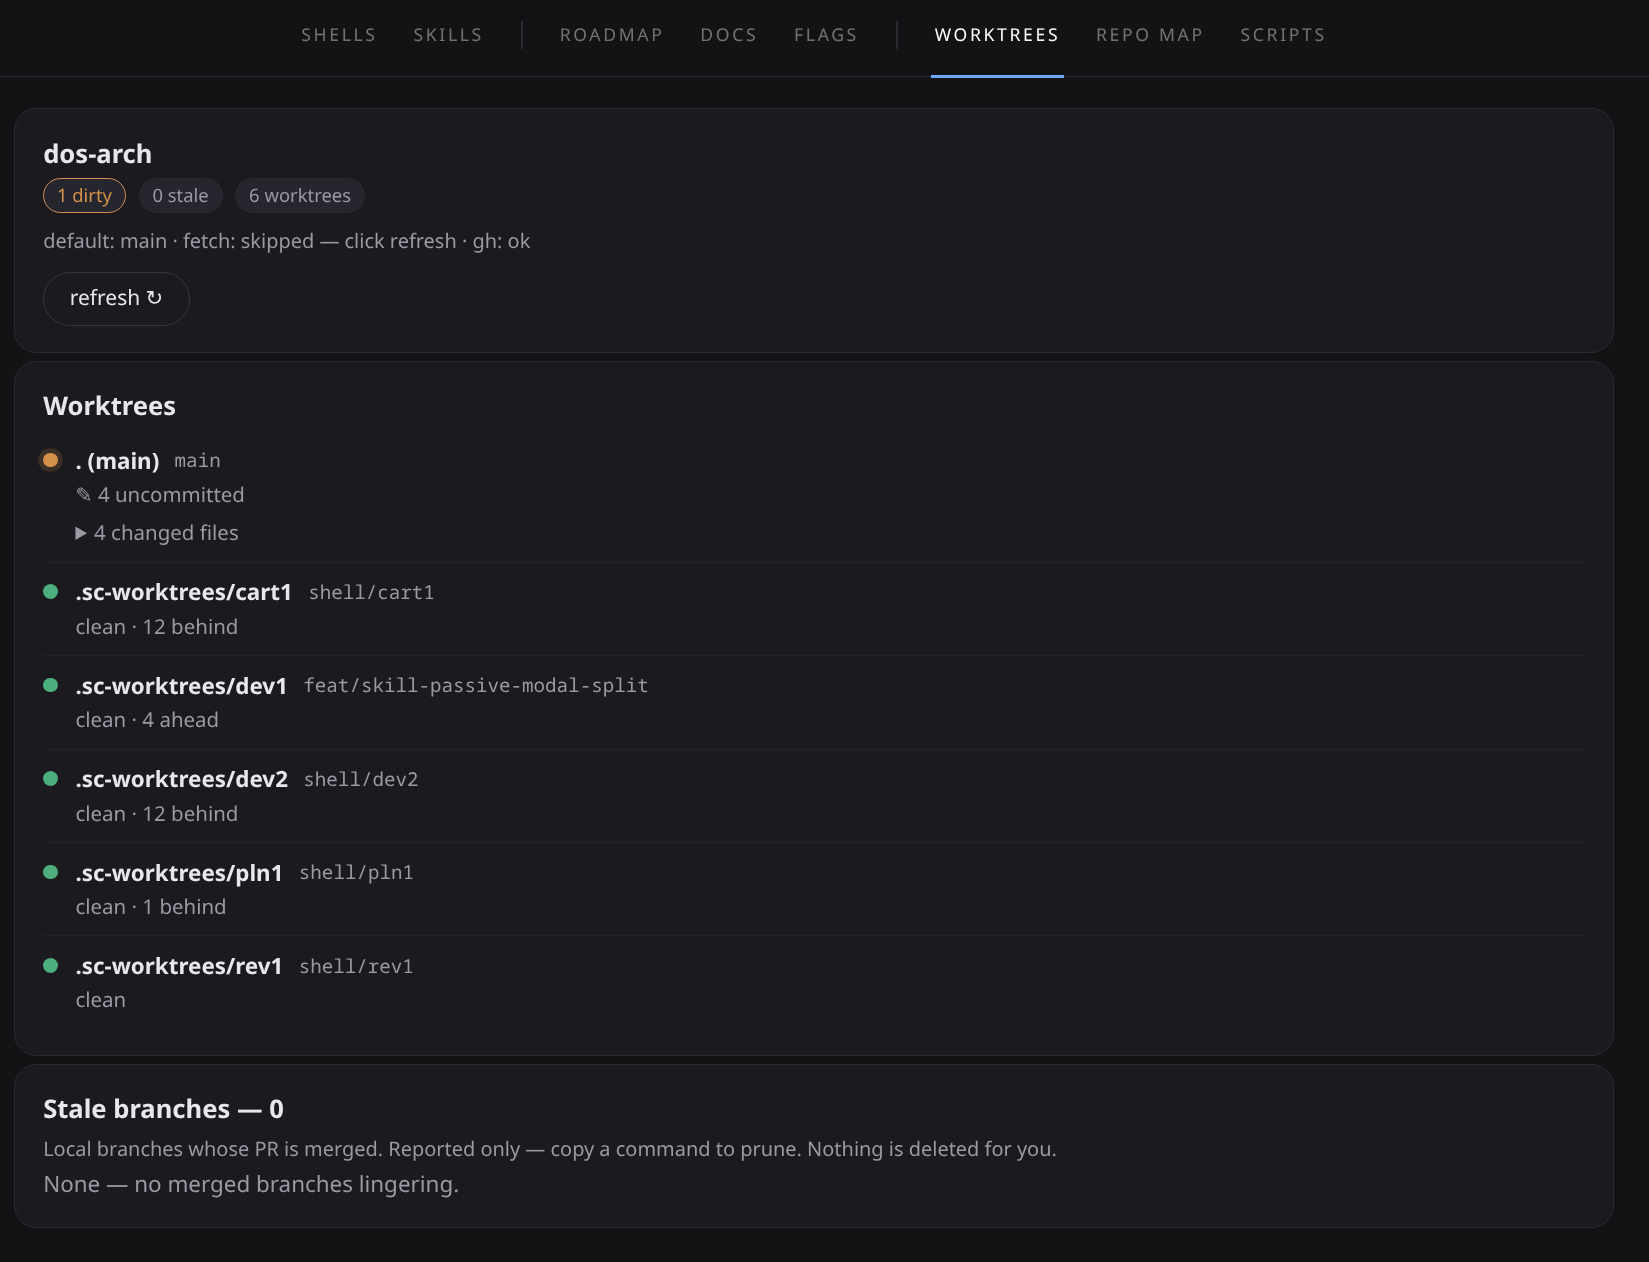
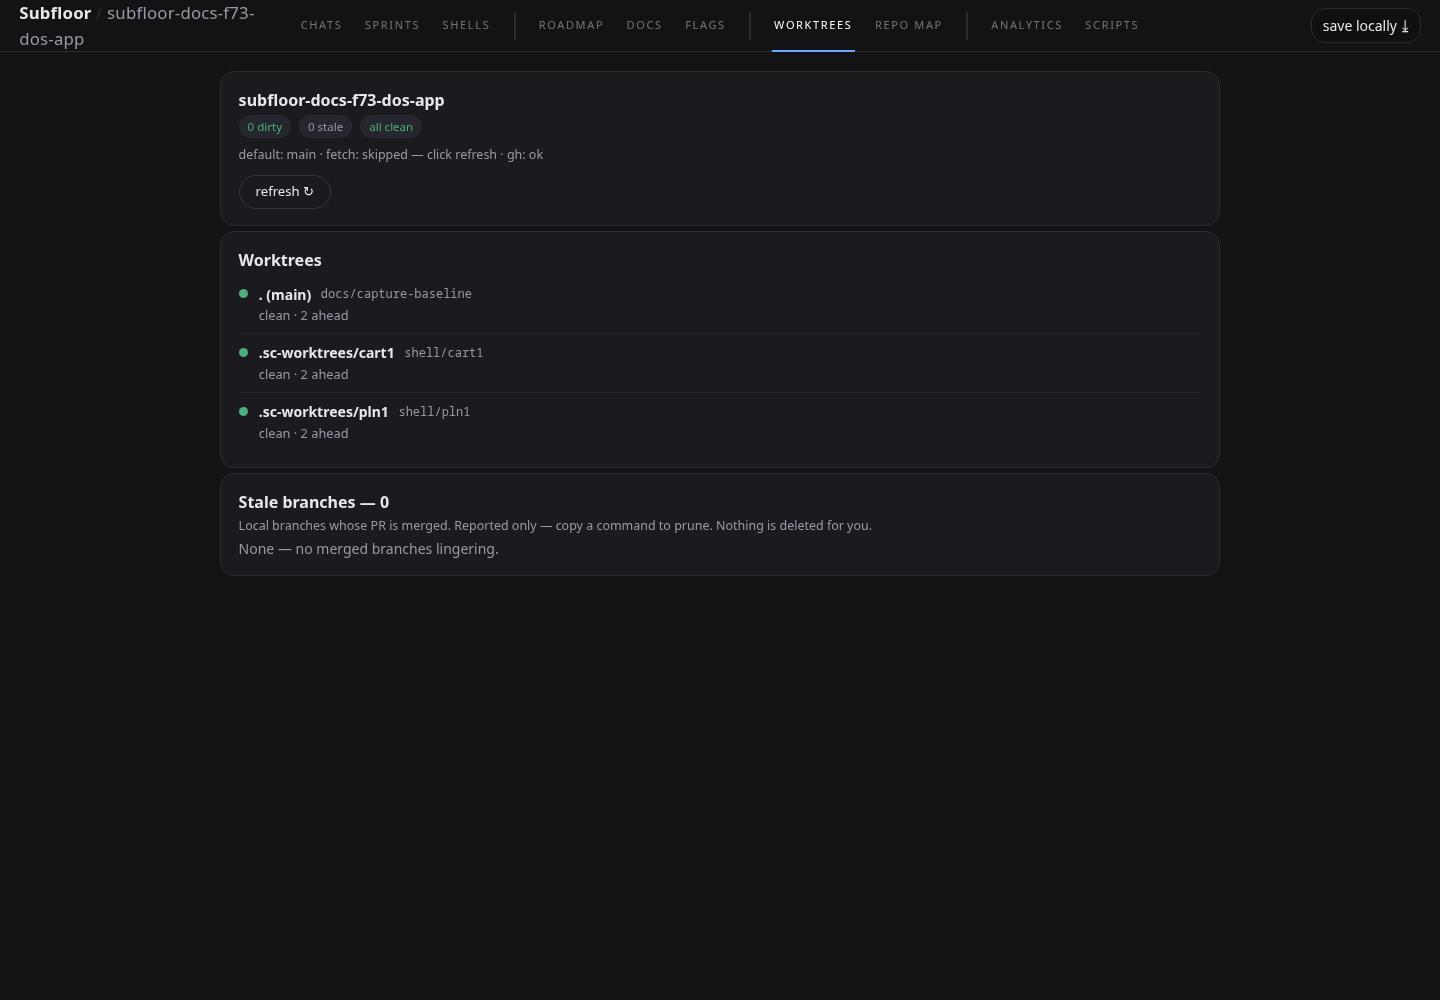
docs: capture real workflows and add source drift checks

diff --git a/tests/test_public_documentation.py b/tests/test_public_documentation.py
@@ -1,0 +1,130 @@
+"""Small offline drift gates for the public documentation's source contract."""
+from __future__ import annotations
+
+import ast
+import json
+import re
+import unittest
+from collections import Counter
+from pathlib import Path
+from urllib.parse import unquote, urlsplit
+
+ROOT = Path(__file__).resolve().parents[1]
+ENGINE = ROOT / '.super-coder'
+CURRENT_DOCS = [
+    ROOT / 'README.md', ROOT / 'docs/quick-start.md', ROOT / 'docs/README.md',
+    ENGINE / 'README.md', *sorted((ENGINE / 'adapters').glob('*/README.md')),
+    *sorted((ENGINE / 'docs').glob('*.md')),
+]
+LINK_DOCS = [*CURRENT_DOCS, ROOT / 'docs/deepseek-harness-removal.md']
+RAW_PREFIX = 'https://raw.githubusercontent.com/jedbjorn/subfloor/main/'
+
+
+def headings(text):
+    """GitHub-style heading IDs, including duplicate suffixes; ignore code."""
+    counts = Counter()
+    result = set()
+    fenced = False
+    for line in text.splitlines():
+        if line.startswith('```'):
+            fenced = not fenced
+        if fenced or not re.match(r'^#{1,6} ', line):
+            continue
+        label = re.sub(r'^#+ | +#+$', '', line).strip().lower()
+        label = re.sub(r'[^\w\- ]', '', label).replace(' ', '-')
+        index = counts[label]
+        counts[label] += 1
+        result.add(label + (f'-{index}' if index else ''))
+    return result
+
+
+class PublicDocumentationTest(unittest.TestCase):
+    def test_internal_files_anchors_and_raw_images_exist(self):
+        for path in LINK_DOCS:
+            for match in re.finditer(r'(!?)\[[^\]\n]*\]\(([^\s)]+)\)', path.read_text()):
+                image, target = match.groups()
+                with self.subTest(document=str(path.relative_to(ROOT)), target=target):
+                    if target.startswith(RAW_PREFIX):
+                        local = ROOT / unquote(target[len(RAW_PREFIX):])
+                        self.assertTrue(local.is_file(), str(local))
+                        continue
+                    parsed = urlsplit(target)
+                    if parsed.scheme or parsed.netloc:
+                        continue
+                    self.assertFalse(image, 'themed images need absolute URLs')
+                    local = path.parent / unquote(parsed.path) if parsed.path else path
+                    self.assertTrue(local.exists(), str(local))
+                    if parsed.fragment and local.suffix == '.md':
+                        self.assertIn(unquote(parsed.fragment), headings(local.read_text()))
+
+    def test_documented_command_families_exist_in_dispatcher(self):
+        # Read the actual command case, without executing any maintenance verb.
+        dispatch = (ENGINE / 'scripts/dispatch.sh').read_text().split('case "$cmd" in')[-1]
+        families = set()
+        for label in re.findall(r'^  ([a-zA-Z0-9_|*\-]+)\)', dispatch, re.MULTILINE):
+            families.update(label.split('|'))
+        seen = set()
+        for path in CURRENT_DOCS:
+            for command in re.findall(r'(?<![\w/-])(?:\./sc|sc|subfloor) ([a-z][a-z-]+)\b', path.read_text()):
+                with self.subTest(document=str(path.relative_to(ROOT)), command=command):
+                    self.assertTrue(command in families or any(
+                        item.endswith('*') and command.startswith(item[:-1])
+                        for item in families
+                    ), 'documented command is absent from dispatcher')
+                    seen.add(command)
+        self.assertTrue({'install', 'enter', 'sprint', 'remove', 'sandbox-memory'} <= seen)
+
+    def test_harness_flavor_roster_and_tab_facts_match_source(self):
+        guide = (ROOT / 'docs/README.md').read_text()
+        adapters = [json.loads(p.read_text()) for p in (ENGINE / 'adapters').glob('*/adapter.json')]
+        self.assertIn(f'value: {len(adapters)}\nlabel: Coding harnesses', guide)
+        flavors = {p.stem for p in (ENGINE / 'templates/shells').glob('*.json')}
+        self.assertIn(f'value: {len(flavors)}\nlabel: Shell flavors', guide)
+        for flavor in flavors:
+            self.assertIn(flavor, guide)
+        tree = ast.parse((ENGINE / 'scripts/init_fork.py').read_text())
+        roster = next(ast.literal_eval(node.value) for node in tree.body
+                      if isinstance(node, ast.Assign) and any(
+                          isinstance(target, ast.Name) and target.id == 'TEAM_ROSTER'
+                          for target in node.targets))
+        self.assertEqual(Counter(row[0] for row in roster),
+                         {'admin': 1, 'planner': 2, 'dev': 4, 'reviewer': 2})
+        self.assertEqual(len(roster) + 1, 10)  # singleton Cartographer is separate
+        self.assertIn('ten-shell team', guide)
+        tabs = re.findall(r'<button data-tab="[^"]+"[^>]*>([^<]+)</button>',
+                          (ENGINE / 'ui/index.html').read_text())
+        self.assertIn(f'value: {len(tabs)}\nlabel: Review-GUI tabs', guide)
+        navigation = guide.split('## Review GUI\n', 1)[1].split('### ', 1)[0]
+        documented_tabs = re.findall(r'^\| \*\*([^*]+)\*\* \|', navigation, re.MULTILINE)
+        self.assertEqual(set(documented_tabs), set(tabs))
+        vibe = next(adapter for adapter in adapters if adapter['harness'] == 'vibe')
+        self.assertEqual(vibe['surfaces'],
+                         {'terminal': True, 'one_shot': False, 'browser': False, 'sprint': False})
+        self.assertIn('Vibe supports terminal work but does not advertise browser or Sprint', guide)
+
+    def test_current_docs_do_not_restore_retired_contracts(self):
+        # Historical migration documents are deliberately outside this scan.
+        forbidden = [r'four harness(?:es)?', r'five flavors', r'six-shell (?:team|roster)',
+                     r'\./sc enter dev\b', r'\.sc-worktrees/dev\b',
+                     r'\.super-coder/memory\.db', r'/api/interface/(?:bootstrap|lease)',
+                     r'conductor shell']
+        for path in CURRENT_DOCS:
+            for pattern in forbidden:
+                with self.subTest(document=str(path.relative_to(ROOT)), pattern=pattern):
+                    self.assertIsNone(re.search(pattern, path.read_text(), re.IGNORECASE))
+
+    def test_themed_guide_has_supported_structure_and_current_assets(self):
+        guide = (ROOT / 'docs/README.md').read_text()
+        self.assertTrue(guide.startswith('---\n'))
+        self.assertRegex(guide, r'(?m)^tags: \[.*\]$')
+        self.assertLessEqual(len(re.findall(r'^## ', guide, re.MULTILINE)), 25)
+        self.assertNotRegex(guide, r'(?m)^#{4,6} ')
+        self.assertIn('## Sprints\n', guide)
+        for asset in ['cli-picker', 'roadmap-tab', 'roadmap-flow', 'worktrees-tab', 'chats-tab', 'sprints-tab']:
+            self.assertIn(RAW_PREFIX + f'docs/images/{asset}.png', guide)
+        # Animation header proves this is still an actual GIF, not a placeholder.
+        self.assertIn((ROOT / 'docs/demo.gif').read_bytes()[:6], (b'GIF87a', b'GIF89a'))
+
+
+if __name__ == '__main__':
+    unittest.main()

diff --git a/maintainer/capture_public_docs.py b/maintainer/capture_public_docs.py
@@ -28,6 +28,10 @@ class DocumentationCapture(PlaywrightCapture):
             response = page.goto(url, wait_until="domcontentloaded", timeout=timeout_ms)
             tab = url.split("#", 1)[1].split("-", 1)[0]
             page.locator(f'nav button[data-tab="{tab}"].active').wait_for(timeout=timeout_ms)
+            if tab == 'worktrees':
+                page.locator('.wt-summary').wait_for(timeout=timeout_ms)
+            elif url.endswith('#roadmap'):
+                page.locator('.feature-title').filter(has_text='Reading list').click()
             page.wait_for_timeout(settle_ms)
             output.parent.mkdir(parents=True, exist_ok=True)
             page.screenshot(path=str(output), full_page=True)

diff --git a/maintainer/public-documentation-refresh.md b/maintainer/public-documentation-refresh.md
@@ -70,34 +70,61 @@ untouched. Recovery bundle and installation logs are retained in the local
 handoff evidence directory. Sandbox launch and authenticated visual acceptance
 belong to the capture/verification tasks; they are not implied by installation.
 
-VHS, ttyd, ffmpeg, Docker, Node and Python 3.14.7 are available. Browser capture
-dependencies, sanitized demonstration state and authenticated harness boot
-still require verification. Do not substitute simulated terminal output or the
-existing running fork's private data.
+## Real capture acceptance
+
+Admin handoff #1811 cleared flag #616 by preparing harness scratch directories
+inside the disposable container, preserving the private-state masks. Engine
+follow-up #617 tracks provisioning those directories at launch. Do not recreate
+that container before completing this verification. The real terminal capture
+reaches Claude's Cartographer prompt. Its cross-session socket and image-owned
+auto-update warnings remain visible; neither prevented boot or the normal
+Planner conversation. No harness output was fabricated or hidden by image edits.
+
+Capture prerequisites: VHS, ttyd, ffmpeg, Docker, Python 3.14.7, and an isolated
+Playwright 1.54.0 environment with Chromium. The existing Claude authentication
+was used without account changes. The clone's origin uses the original dos-app
+HTTPS transport so normal sandbox GitHub capability resolution works.
+
+Through the live browser Chats API, Planner PLN1 created the demonstration
+work-stream Reading list, three features (Reading list in progress, Search saved
+books next, Reading reminders near term), spec #1 with two independent tasks,
+and prepared Sprint #1 with DEV1/REV1 and DEV2/REV2 lanes. The conversation is
+real model output using granted commands. All routes use Claude Harness default
+(model and effort null). No Sprint was armed, no participants were dispatched,
+and no project implementation or external PR was created. The shortname Demo
+and book-list content are intentional public fixtures.
+
+To reproduce after provisioning the dedicated clone:
+
+1. Open a Planner chat with Harness default. Ask it to create the work-stream
+   and three features above through normal commands, one spec and tasks named
+   “Save a book” and “Track reading progress”; prohibit project edits and
+   external messages. Use the returned IDs.
+2. Ask it to prepare those two lanes with the assignments above and record the
+   merge grant, but explicitly prohibit arming, dispatch, PRs and merges.
+3. From this source checkout run `vhs docs/demo.tape`. The tape deliberately
+   enters `/tmp/subfloor-docs-f73-dos-app`, selects Demo, Cartographer and Claude.
+4. Run `python maintainer/capture_public_docs.py --port 8824 --output <gallery>`
+   using the isolated Playwright interpreter. The helper verifies the fixture's
+   health identity, waits for real page content, and expands the Board feature.
+5. Review the gallery and terminal frames before copying the five browser PNGs
+   into `docs/images`. Never substitute another running fork's private data.
+
+Accepted assets on 2026-09-07: the 1100×1000 terminal GIF (468 frames) and CLI
+picker; real Roadmap Board/Flow, Worktrees, Chats and Sprints PNGs at 1440-pixel
+width. Visual review confirmed legible content, no credentials or personal
+paths, a populated Board with spec/tasks, clean worktrees, and an explicitly
+prepared Sprint. Flow intentionally has no dependency edges. The guide captions
+now describe these actual states. Capture gallery reports five routes, zero
+failures. The original dos-app checkout and runtime remain preserved.
 
 ## Remaining delivery gates
 
-Tasks #795–#798 are complete: provisioned preparation, core correctness,
-public workflows, and the adapter/runbook audit. The DeepSeek removal document
-retains its exact-ref checkpoints beneath a historical/Admin applicability label.
+Tasks #795–#799 are complete: preparation, core corrections, workflow rewrite,
+runbook audit, and real visuals. The DeepSeek document retains its exact-ref
+checkpoints beneath a historical/Admin applicability label.
 
-Task #799 is in progress. Sandbox launch and health pass; all five harnesses
-are detected and Claude reports existing authentication. Real interactive boot
-reaches Claude but then fails creating its temporary directory under the
-restricted execution view. Admin handoff #1808 and flag #616 track that capture
-blocker. The independent clone's origin now uses the original dos-app HTTPS
-GitHub transport, and launch refreshed its GitHub capability boundary.
-
-`maintainer/capture_public_docs.py` uses the existing visual-QA gallery and
-Playwright session against the dedicated live instance. Its page-ready capture
-supports Chats' persistent SSE stream. Previews prove navigation/capture only;
-empty Roadmap/Sprint views are not accepted as the required seeded assets.
-The updated `docs/demo.tape` selects Demo, Cartographer #2 and Claude #1. Its
-old tracked GIF is deliberately retained until a successful real recording can
-replace it. Task #800 remains pending.
-
-The visuals must cover the CLI picker, Roadmap Board and Flow, Worktrees, Chats,
-and Sprints. Review actual assets at rendered size for privacy and legibility.
-Finish with command/link/anchor/fact drift checks, a quick-start sandbox walk,
-themed rendering, configured CI, independent documentation review, and a final
-link/render pass after review fixes. None of those gates is certified here.
+Task #800 must finish command/link/anchor/fact drift checks, the quick-start
+sandbox walk, themed rendering, configured CI, independent documentation review,
+and a final link/render pass after review fixes. Capture success does not certify
+those remaining gates.

diff --git a/docs/README.md b/docs/README.md
@@ -144,9 +144,9 @@ checks the daemon is reachable and points you here if not — it never does setu
   ./sc doctor                               # verify → "docker ✓ rootful"
   ```
 
-The commands are the five steps in the Quick start above — pull the engine in
-via git (no history merge; subfloor never touches your repo's own build
-files), `./sc install`, sign in, launch, commit.
+Follow the [Quick start](quick-start.md): fetch the engine without merging its
+history, install it, commit the bootstrap, launch, sign in, then enter a shell.
+Subfloor does not replace your project's build files.
 
 `./sc install` does the rest: checks requirements, **installs the harness CLIs**
 (`claude` + `opencode` + `codex` + `vibe` + `kimi`, via their official native installers — no
@@ -925,7 +925,11 @@ and ignored local flat renders. Generated artifacts are never committed or publi
 
 ![Review GUI, Roadmap tab — Board view: a feature expanded into its inline editor with title, status, summary, and spec-task checklist](https://raw.githubusercontent.com/jedbjorn/subfloor/main/docs/images/roadmap-tab.png)
 
-![Review GUI, Worktrees tab — live git-hygiene report: dirty worktrees, each branch ahead/behind its base, and prunable merged branches](https://raw.githubusercontent.com/jedbjorn/subfloor/main/docs/images/worktrees-tab.png)
+![Review GUI, Worktrees tab — live git-hygiene report for the clean demonstration checkout and its two shell worktrees](https://raw.githubusercontent.com/jedbjorn/subfloor/main/docs/images/worktrees-tab.png)
+
+![Review GUI, Chats tab — the real Planner conversation summarizing a prepared demonstration Sprint](https://raw.githubusercontent.com/jedbjorn/subfloor/main/docs/images/chats-tab.png)
+
+![Review GUI, Sprints tab — two independent demonstration lanes waiting in a prepared, unarmed Sprint](https://raw.githubusercontent.com/jedbjorn/subfloor/main/docs/images/sprints-tab.png)
 
 ### Roadmap views — Board & Flow
 
@@ -942,7 +946,7 @@ The Roadmap tab renders the same feature rows two ways, toggled top-centre:
   prerequisite must land before what it blocks. The graph is kept acyclic, so it
   reads cleanly stage by stage.
 
-![Review GUI, Roadmap tab — Flow view: features grouped by work-stream across the planning stages, with blocker dependencies wired between cards](https://raw.githubusercontent.com/jedbjorn/subfloor/main/docs/images/roadmap-flow.png)
+![Review GUI, Roadmap tab — Flow view: demonstration features grouped by work-stream across three planning stages](https://raw.githubusercontent.com/jedbjorn/subfloor/main/docs/images/roadmap-flow.png)
 
 > [!class2]
 > **Drive it from the shell, too.** `./sc mem roadmap project <feature_id> <work-stream>`
